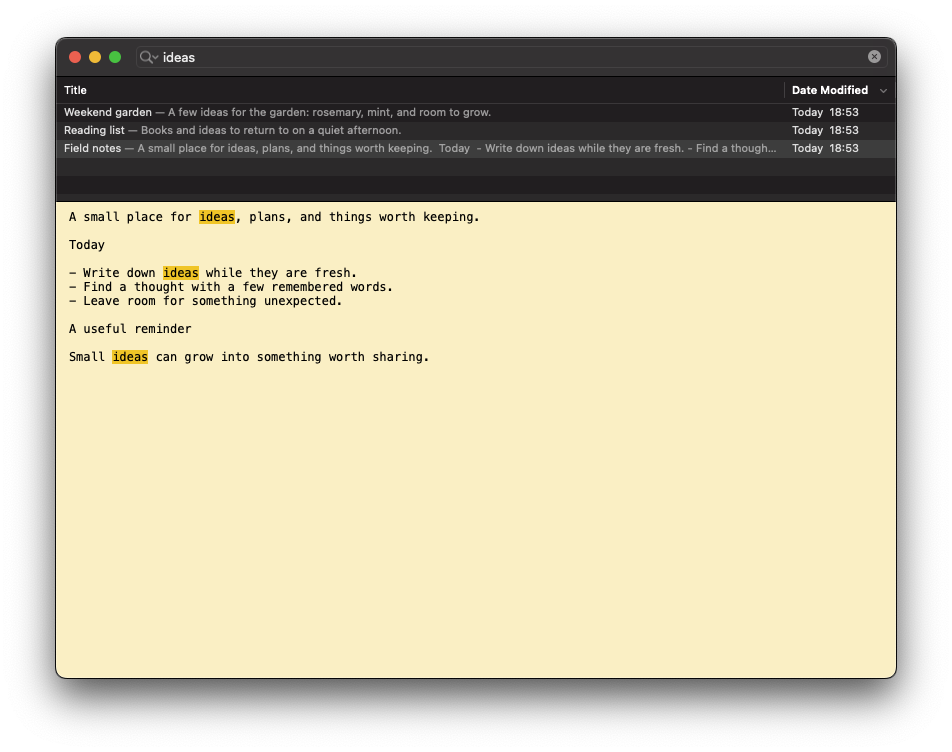
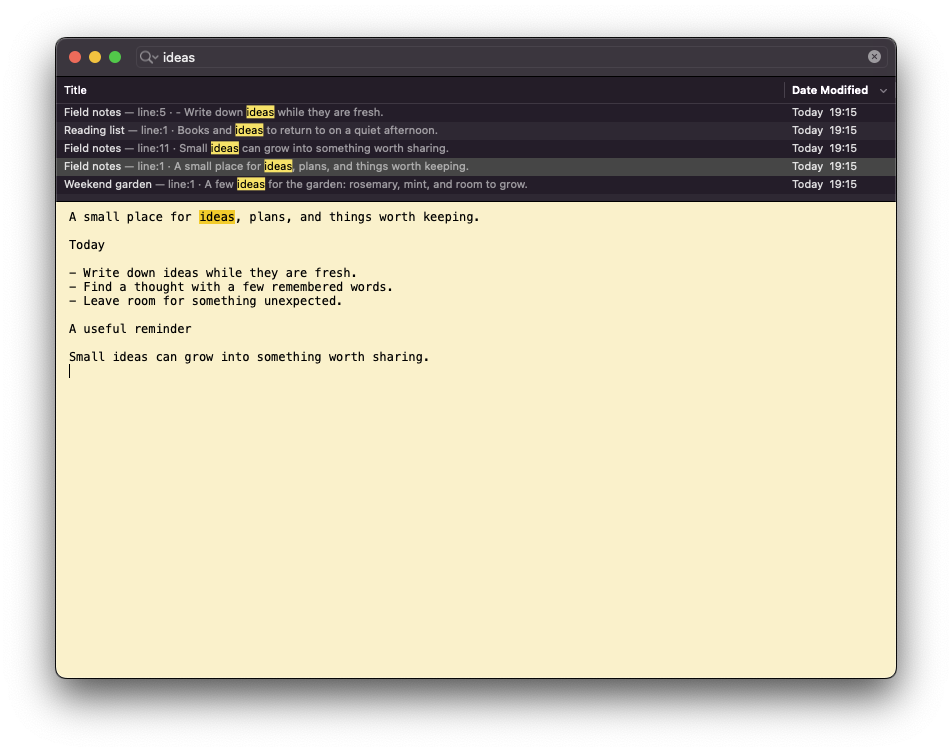
Capture README palette images in Fuzzy mode

Changed region(s): [[0.0609, 0.1223, 0.9443, 0.2753], [0.1523, 0.3364, 0.2132, 0.3976], [0.1218, 0.4588, 0.1523, 0.4894]]

diff --git a/docs/screenshots/README.md b/docs/screenshots/README.md
@@ -3,24 +3,27 @@
 ## Current images
 
 The source, search, and multiple-window images show Org syntax highlighting with the light User Scheme palette from [PR #46](https://github.com/dangduc/nv/pull/46).
-`readme-dark.png` is an exact copy of `user-scheme-defaults-dark.png` from that PR.
+The dark image shows the dark User Scheme palette with plain source text.
+All four refreshed images use Fuzzy mode and show highlighted matches in the notes list.
 The [User Scheme default colors](#user-scheme-default-colors) section records both palettes.
 
 | Image | Content |
 | --- | --- |
-| `readme-source.png` | Light appearance with Org headings, checkboxes, a table, a source block, and search highlights for `ideas`. |
-| `readme-dark.png` | Dark appearance with black text, a cream editor background, and yellow search highlights. |
+| `readme-source.png` | Light appearance with Org syntax and fuzzy highlights for `ideas` in the notes list and editor. |
+| `readme-dark.png` | Dark appearance with a cream editor background and yellow fuzzy highlights in the notes list and editor. |
 | `readme-search.png` | Fuzzy search for `grdn`, separate matching lines, highlighted result text, and the selected match in an Org note. |
 | `readme-preview.png` | A read-only Markdown preview in WebKit. |
 | `readme-windows.png` | Two Org notes with independent fuzzy queries, selections, and divider heights in one shared library. |
 
-The source, search, and multiple-window captures date from September 21, 2026, on macOS 13.7.8 with Xcode 15.2.
+The four refreshed captures date from September 21, 2026, on macOS 13.7.8 with Xcode 15.2.
 The Intel Development app runs under Rosetta, with application source at `be518de1d57a8d28f9b574805d01c532ef931f65`.
[1 lines of base64/hex data omitted]
 
 The captures use disposable sample notes and a separate preferences domain.
 WindowServer captures only the sample windows, with no annotations or pixel changes.
-The source capture passed 16 checks for the selected palette, search highlights, and Org syntax colors.
+The light source capture passed 20 checks, and the dark capture passed 16 checks.
+These checks include the palette, completed fuzzy results, and drawn highlight pixels in every visible result row.
+The light capture also checks Org syntax colors.
 The search and multiple-window captures passed 29 checks for fuzzy highlights, Org syntax, and independent browser state.
 The capture app exited after each run.
 
@@ -31,6 +34,7 @@ The preview capture uses a disposable Markdown note in the native WebKit viewer.
 The original five-image capture passed 21 state and image checks.
 
 When you refresh these images, use the same palettes.
+Select Fuzzy search mode for all four samples.
 Select Org source syntax for the light source, search, and multiple-window samples.
 Inspect each image before publication and update its capture details.
 
